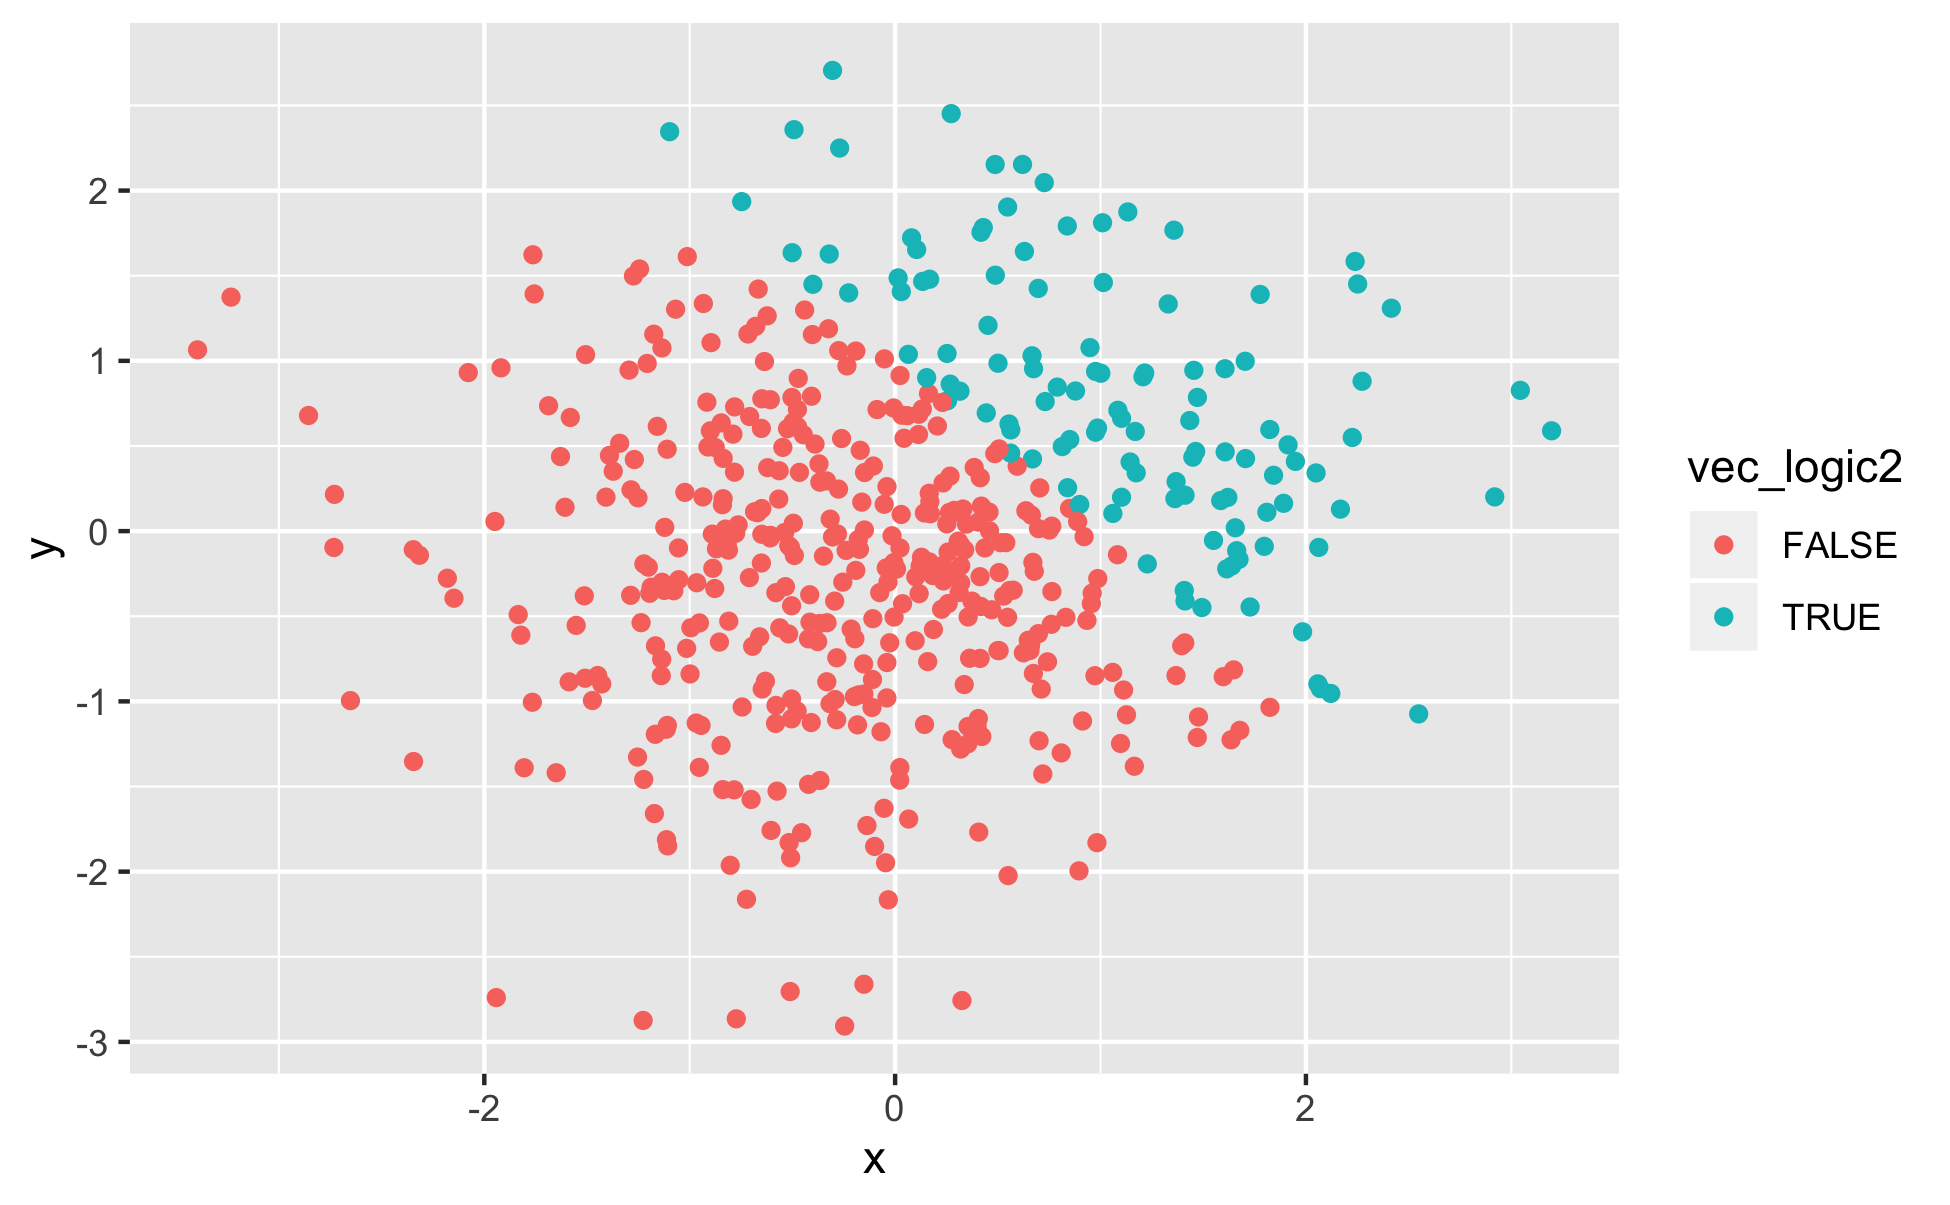
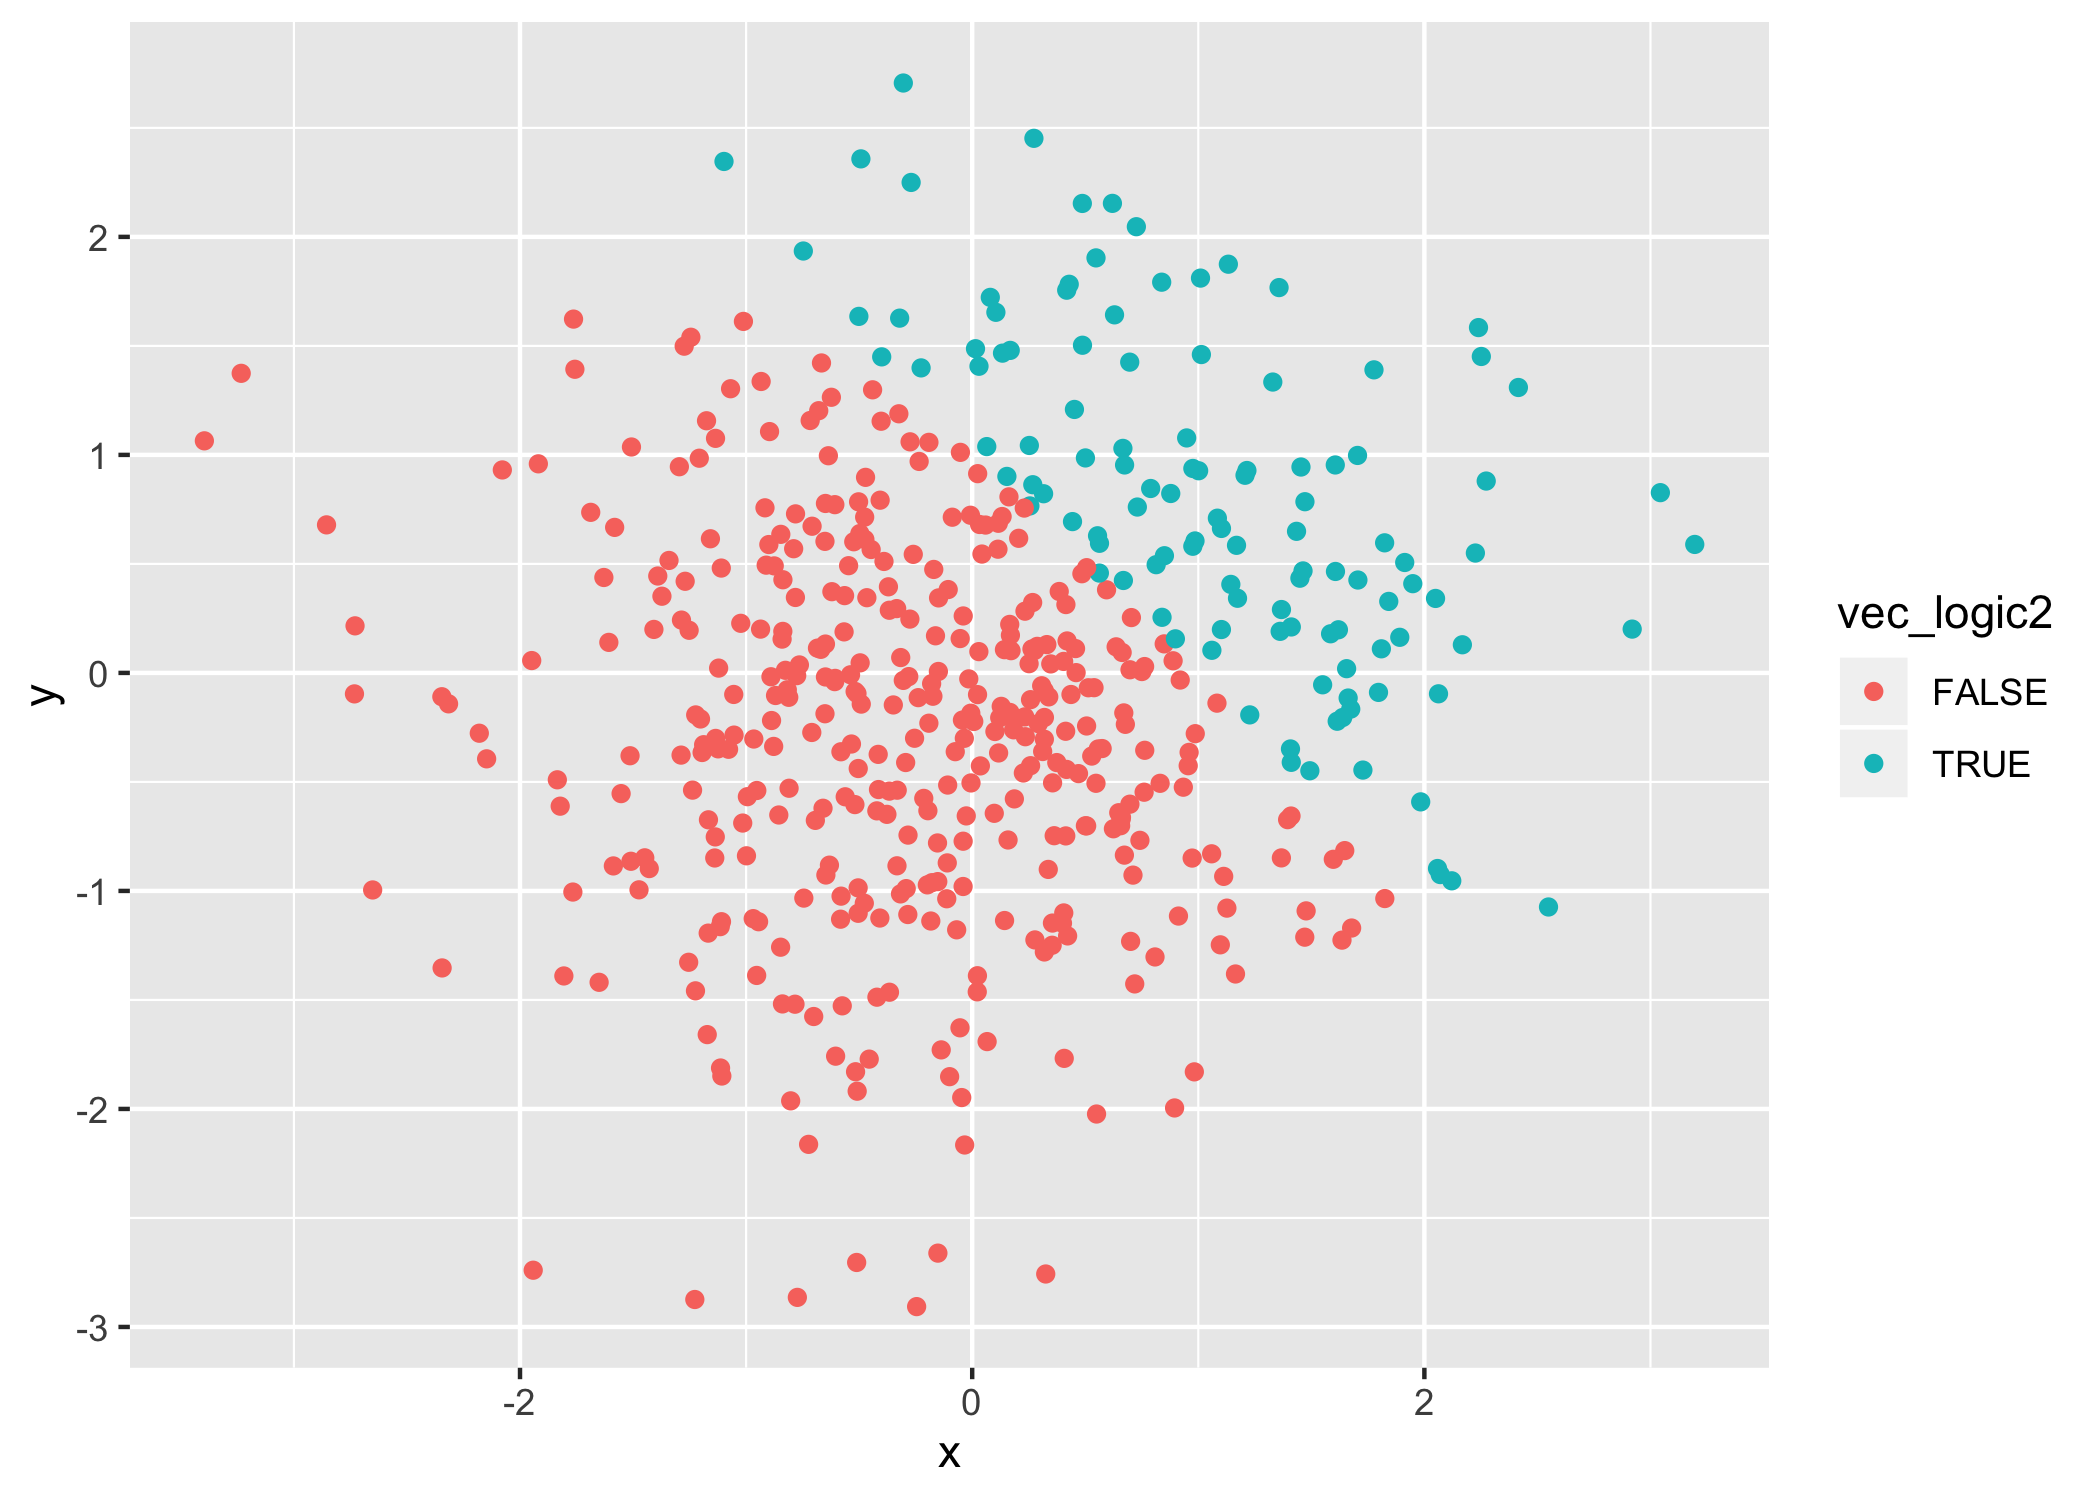
True final commits and outputs of homework 1

diff --git a/p8105hw_1_cz2540.md b/p8105hw_1_cz2540.md
@@ -18,13 +18,13 @@ vec_factor = factor(c("blue", "blue","blue", "yellow", "yellow", "red","red", "r
 mean(pull(hw_df, norm_samp))
 ```
 
-    ## [1] -0.4725991
+    ## [1] 0.2494299
 
 ``` r
 mean(pull(hw_df, norm_samp_logic))
 ```
 
-    ## [1] 0.125
+    ## [1] 0.75
 
 ``` r
 mean(pull(hw_df, vec_char))
@@ -50,12 +50,10 @@ mean(pull(hw_df, vec_factor))
 ### Problem 1: Applying as.numeric
 
 ``` r
-eval = FALSE
-
 as.numeric(pull(hw_df, norm_samp_logic))
 ```
 
-    ## [1] 0 0 1 0 0 0 0 0
+    ## [1] 0 1 1 1 1 1 0 1
 
 ``` r
 as.numeric(pull(hw_df, vec_char))
@@ -76,19 +74,19 @@ as.numeric(pull(hw_df, vec_factor))
     unable to take the mean. Logical variable converted (true" to 1,
     “false” to 0). different factor levels were converted to numbers
     and the mean was able to be taken (blue became 1, yellow became 3,
-    red became 2).
+    red became
+2).
 
 ### Problem 1: converting logical vector
 
 ``` r
-eval = TRUE
 ##converting the logical vector to numeric, and multiply the random sample by the result, converting the logical vector to a factor, and multiply the random sample by the result, and convert the logical vector to a factor and then convert the result to numeric, and multiply the random sample by the result ##
 
 as.numeric(pull(hw_df, norm_samp_logic))*(pull(hw_df, norm_samp))
 ```
 
-    ## [1] 0.0000000 0.0000000 0.5110936 0.0000000 0.0000000 0.0000000 0.0000000
-    ## [8] 0.0000000
+    ## [1] 0.00000000 0.62174614 0.04424225 0.22517992 1.50515821 1.92385623
+    ## [7] 0.00000000 0.98127625
 
 ``` r
 as.factor(pull(hw_df, norm_samp_logic))*(pull(hw_df, norm_samp))
@@ -103,10 +101,10 @@ as.factor(pull(hw_df, norm_samp_logic))*(pull(hw_df, norm_samp))
 as.numeric(as.factor(pull(hw_df, norm_samp_logic)))*(pull(hw_df, norm_samp))
 ```
 
-    ## [1] -0.09914613 -0.89207085  1.02218716 -0.92498883 -0.37097936 -0.32929847
-    ## [7] -0.49026931 -1.18513324
+    ## [1] -0.58126989  1.24349227  0.08848449  0.45035984  3.01031641  3.84771246
+    ## [7] -2.72474957  1.96255250
 
-## Problem 2
+### Problem 2
 
 ``` r
 ##creating a second data frame named (df2)# 
@@ -128,7 +126,7 @@ plot_df2 = tibble(
   - The proportion of cases for which x + y \> 1 is
 0.232
 
-### Problem 2: Scatterplots
+## Problem 2: Scatterplots
 
 ``` r
 ##create a scatterplot of y vs. x, color points using logic, numeric, and factor variables#
@@ -137,6 +135,12 @@ ggplot(plot_df2, aes(y = y, x = x, color = vec_logic2)) + geom_point()
 ```
 
 ![](p8105hw_1_cz2540_files/figure-gfm/problem2%20scatterplot-1.png)<!-- -->
+
+``` r
+ggsave("plot_df2.png")
+```
+
+    ## Saving 7 x 5 in image
 
 ``` r
 ggplot(plot_df2, aes(y = y, x = x, color = vec_numeric2)) + geom_point()
@@ -152,6 +156,9 @@ ggplot(plot_df2, aes(y = y, x = x, color = vec_factor2)) + geom_point()
 
   - The logic and factor scatterplots consist of two colors that
     represent the binary values of true, in blue, and false, in red. The
-    numeric scatterplot is different in that the color scale is a
-    gradient ranging from a darker to lighter blue. This represents the
-    continuous scalae from 0.00 to 1.00 as seen in the output’s legend.
+    factor scatterplot has the same color scales as the logic plot
+    because the factor vector was created by coercing the logic vector.
+    The numeric scatterplot has a different color scale, coloring a
+    numeric variable representing the values 0 or 1. This explains why
+    there are only two colors plotted on the numeric scatterplot,
+    despite the key showing a gradient of colors.
